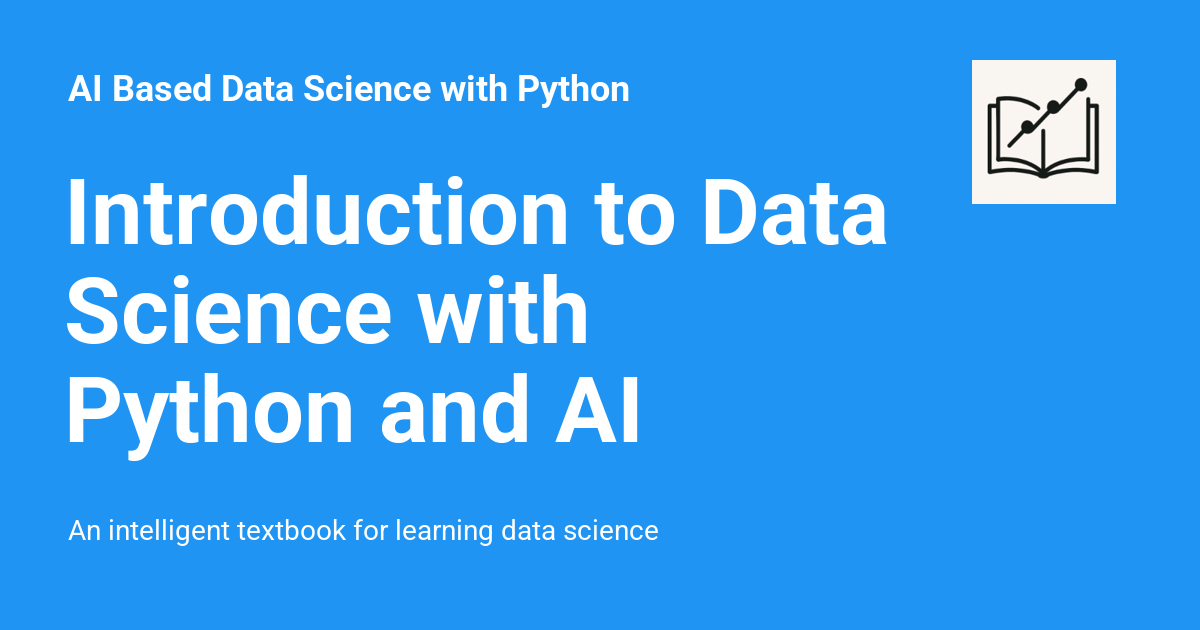
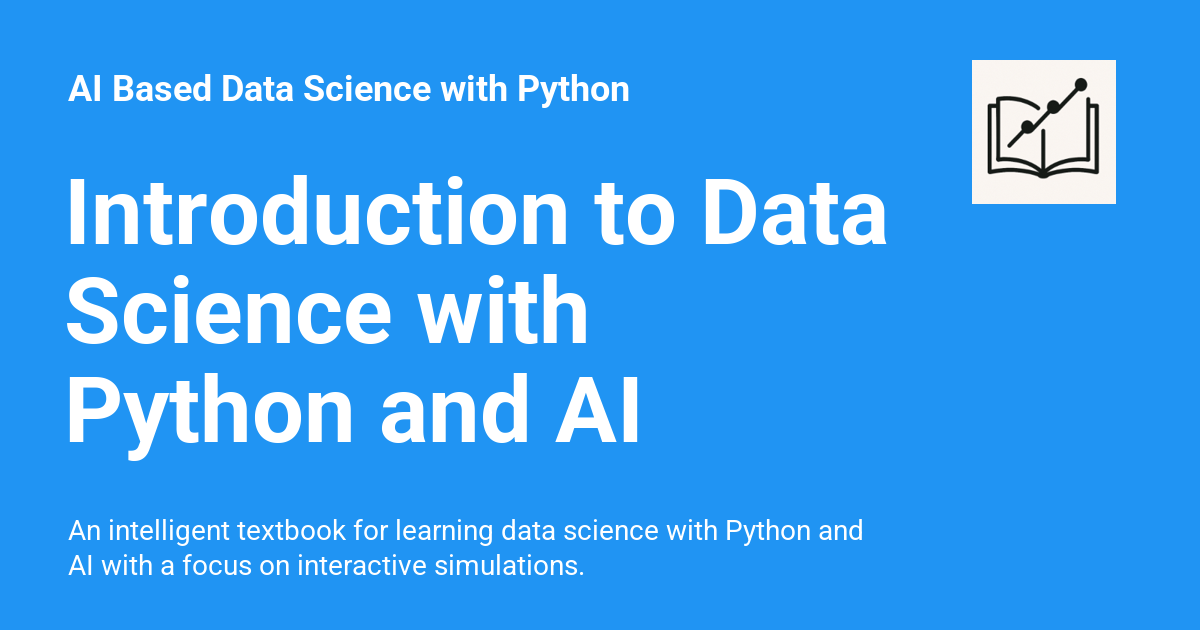
Deployed 928b47d with MkDocs version: 1.6.1

Changed region(s): [[0.0617, 0.8746, 0.4933, 0.9349], [0.555, 0.8143, 0.7092, 0.8746]]

diff --git a/index.html b/index.html
@@ -6,7 +6,7 @@
       <meta charset="utf-8">
       <meta name="viewport" content="width=device-width,initial-scale=1">
       
-        <meta name="description" content="An intelligent textbook for learning data science">
+        <meta name="description" content="An intelligent textbook for learning data science with Python and AI with a focus on interactive simulations.">
       
       
         <meta name="author" content="Dan McCreary">
@@ -73,7 +73,7 @@
       
         <meta  property="og:title"  content="AI Based Data Science with Python" >
       
-        <meta  property="og:description"  content="An intelligent textbook for learning data science" >
+        <meta  property="og:description"  content="An intelligent textbook for learning data science with Python and AI with a focus on interactive simulations." >
       
         <meta property="og:image" content="https://dmccreary.github.io/data-science-course/img/cover.jpg">
       
@@ -89,7 +89,7 @@
       
         <meta  name="twitter:title"  content="AI Based Data Science with Python" >
       
-        <meta  name="twitter:description"  content="An intelligent textbook for learning data science" >
+        <meta  name="twitter:description"  content="An intelligent textbook for learning data science with Python and AI with a focus on interactive simulations." >
       
         <meta name="twitter:image" content="https://dmccreary.github.io/data-science-course/img/cover.jpg">
       
